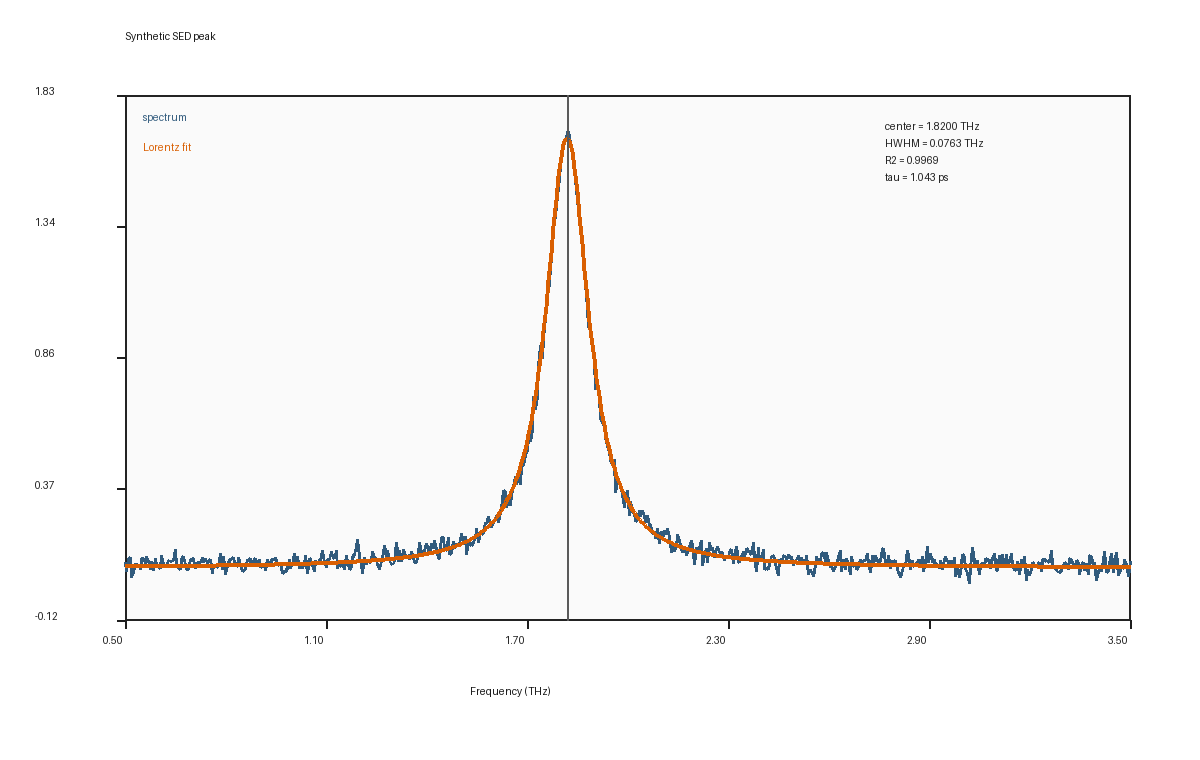
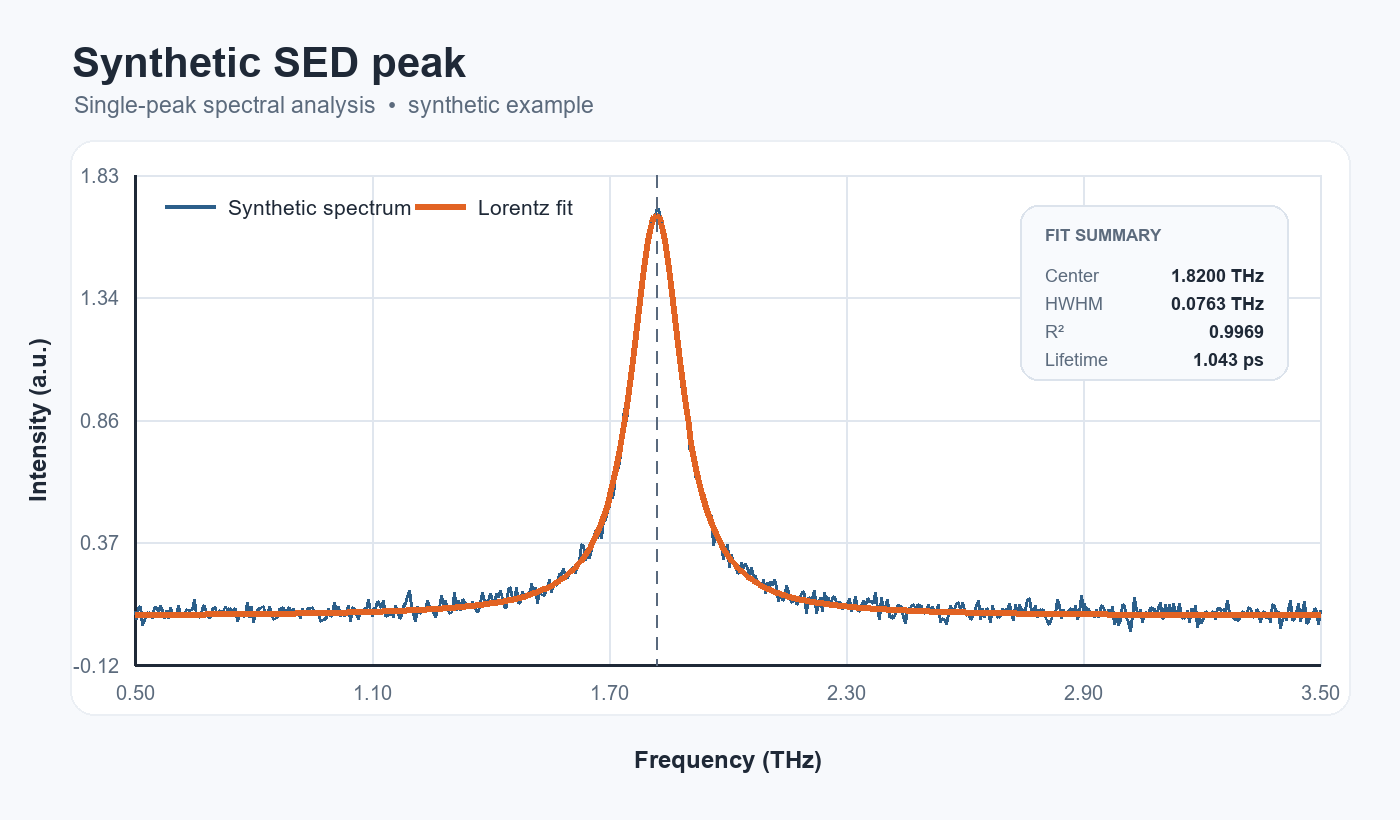
Improve demo figure styling

diff --git a/phononfit/plotting.py b/phononfit/plotting.py
@@ -8,26 +8,34 @@ from PIL import Image, ImageDraw, ImageFont
 from .fitting import LorentzFit
 
 
+INK = (31, 41, 55)
+MUTED = (92, 107, 125)
+GRID = (224, 230, 238)
+SPECTRUM = (44, 95, 138)
+FIT = (226, 99, 35)
+ACCENT = (89, 105, 125)
+
+
 def plot_fit(
     frequency: np.ndarray,
     intensity: np.ndarray,
     fit: LorentzFit,
     output: str | Path,
     *,
-    title: str = "Local Lorentz fit",
+    title: str = "Lorentz fit of a synthetic SED peak",
 ) -> Path:
-    """Write a compact, dependency-light spectrum/fit diagnostic figure."""
+    """Write a polished spectrum/fit diagnostic figure with Pillow."""
     x = np.asarray(frequency, dtype=float)
     y = np.asarray(intensity, dtype=float)
     fitted = fit.evaluate(x)
     output_path = Path(output)
     output_path.parent.mkdir(parents=True, exist_ok=True)
 
-    width, height = 1200, 760
-    image = Image.new("RGB", (width, height), "white")
+    width, height = 1400, 820
+    image = Image.new("RGB", (width, height), (247, 249, 252))
     draw = ImageDraw.Draw(image)
-    box = (125, 95, 1130, 620)
-    draw.rectangle(box, fill=(250, 250, 250), outline=(35, 35, 35), width=2)
+    plot = (135, 175, 1320, 665)
+    draw.rounded_rectangle((70, 140, 1350, 715), radius=24, fill="white", outline=(235, 239, 244), width=2)
 
     xmin, xmax = float(x.min()), float(x.max())
     ymin = float(min(y.min(), fitted.min()))
@@ -37,47 +45,103 @@ def plot_fit(
     ymax += padding
 
     def point(xvalue: float, yvalue: float) -> tuple[float, float]:
-        px = box[0] + (xvalue - xmin) / (xmax - xmin) * (box[2] - box[0])
-        py = box[3] - (yvalue - ymin) / (ymax - ymin) * (box[3] - box[1])
+        px = plot[0] + (xvalue - xmin) / (xmax - xmin) * (plot[2] - plot[0])
+        py = plot[3] - (yvalue - ymin) / (ymax - ymin) * (plot[3] - plot[1])
         return px, py
 
-    for fraction in np.linspace(0.0, 1.0, 6):
-        xvalue = xmin + fraction * (xmax - xmin)
-        px, _ = point(xvalue, ymin)
-        draw.line((px, box[3], px, box[3] + 8), fill=(30, 30, 30), width=2)
-        draw.text((px - 22, box[3] + 14), f"{xvalue:.2f}", fill=(30, 30, 30), font=_font(18))
-    for fraction in np.linspace(0.0, 1.0, 5):
-        yvalue = ymin + fraction * (ymax - ymin)
-        _, py = point(xmin, yvalue)
-        draw.line((box[0] - 8, py, box[0], py), fill=(30, 30, 30), width=2)
-        draw.text((35, py - 10), f"{yvalue:.2f}", fill=(30, 30, 30), font=_font(18))
+    x_ticks = np.linspace(xmin, xmax, 6)
+    y_ticks = np.linspace(ymin, ymax, 5)
+    for xvalue in x_ticks:
+        px, _ = point(float(xvalue), ymin)
+        draw.line((px, plot[1], px, plot[3]), fill=GRID, width=2)
+        label = f"{xvalue:.2f}"
+        bbox = draw.textbbox((0, 0), label, font=_font(20))
+        draw.text((px - (bbox[2] - bbox[0]) / 2, plot[3] + 16), label, fill=MUTED, font=_font(20))
+    for yvalue in y_ticks:
+        _, py = point(xmin, float(yvalue))
+        draw.line((plot[0], py, plot[2], py), fill=GRID, width=2)
+        label = f"{yvalue:.2f}"
+        bbox = draw.textbbox((0, 0), label, font=_font(20))
+        draw.text((plot[0] - (bbox[2] - bbox[0]) - 16, py - 11), label, fill=MUTED, font=_font(20))
 
-    draw.line([point(float(xv), float(yv)) for xv, yv in zip(x, y)], fill=(49, 91, 125), width=3)
-    draw.line(
-        [point(float(xv), float(yv)) for xv, yv in zip(x, fitted)],
-        fill=(217, 95, 2),
-        width=4,
-    )
+    draw.line((plot[0], plot[1], plot[0], plot[3]), fill=INK, width=3)
+    draw.line((plot[0], plot[3], plot[2], plot[3]), fill=INK, width=3)
+
+    spectrum_points = [point(float(xv), float(yv)) for xv, yv in zip(x, y)]
+    fit_points = [point(float(xv), float(yv)) for xv, yv in zip(x, fitted)]
+    draw.line(spectrum_points, fill=SPECTRUM, width=3)
+    draw.line(fit_points, fill=FIT, width=6)
+
     center_x, _ = point(fit.center, ymin)
-    draw.line((center_x, box[1], center_x, box[3]), fill=(90, 90, 90), width=2)
+    _dashed_vertical(draw, center_x, plot[1], plot[3], fill=ACCENT)
 
-    draw.text((125, 30), title, fill=(20, 20, 20), font=_font(32))
-    draw.text((470, 685), "Frequency (THz)", fill=(20, 20, 20), font=_font(24))
-    draw.text((box[0] + 18, box[1] + 16), "spectrum", fill=(49, 91, 125), font=_font(20))
-    draw.text((box[0] + 18, box[1] + 46), "Lorentz fit", fill=(217, 95, 2), font=_font(20))
-    summary = (
-        f"center = {fit.center:.4f} THz\n"
-        f"HWHM = {fit.hwhm:.4f} THz\n"
-        f"R2 = {fit.r2:.4f}\n"
-        f"tau = {fit.lifetime_ps:.3f} ps"
+    draw.text((72, 38), title, fill=INK, font=_font(42, bold=True))
+    draw.text(
+        (74, 92),
+        "Single-peak spectral analysis  •  synthetic example",
+        fill=MUTED,
+        font=_font(23),
     )
-    draw.multiline_text((885, 120), summary, fill=(30, 30, 30), font=_font(19), spacing=7)
+
+    legend_y = 195
+    draw.line((165, legend_y + 11, 215, legend_y + 11), fill=SPECTRUM, width=4)
+    draw.text((228, legend_y), "Synthetic spectrum", fill=INK, font=_font(21))
+    draw.line((415, legend_y + 11, 465, legend_y + 11), fill=FIT, width=6)
+    draw.text((478, legend_y), "Lorentz fit", fill=INK, font=_font(21))
+
+    card = (1020, 205, 1288, 380)
+    draw.rounded_rectangle(card, radius=18, fill=(248, 250, 253), outline=(220, 227, 236), width=2)
+    draw.text((1045, 225), "FIT SUMMARY", fill=MUTED, font=_font(17, bold=True))
+    metrics = [
+        ("Center", f"{fit.center:.4f} THz"),
+        ("HWHM", f"{fit.hwhm:.4f} THz"),
+        ("R²", f"{fit.r2:.4f}"),
+        ("Lifetime", f"{fit.lifetime_ps:.3f} ps"),
+    ]
+    for index, (label, value) in enumerate(metrics):
+        yy = 265 + index * 28
+        draw.text((1045, yy), label, fill=MUTED, font=_font(18))
+        value_box = draw.textbbox((0, 0), value, font=_font(18, bold=True))
+        draw.text((1264 - (value_box[2] - value_box[0]), yy), value, fill=INK, font=_font(18, bold=True))
+
+    x_label = "Frequency (THz)"
+    x_box = draw.textbbox((0, 0), x_label, font=_font(24, bold=True))
+    draw.text(((plot[0] + plot[2] - (x_box[2] - x_box[0])) / 2, 746), x_label, fill=INK, font=_font(24, bold=True))
+    _rotated_label(image, "Intensity (a.u.)", (42, (plot[1] + plot[3]) // 2))
+
     image.save(output_path, dpi=(180, 180))
     return output_path
 
 
-def _font(size: int) -> ImageFont.ImageFont:
-    try:
-        return ImageFont.truetype("DejaVuSans.ttf", size)
-    except OSError:
-        return ImageFont.load_default()
+def _dashed_vertical(
+    draw: ImageDraw.ImageDraw,
+    x: float,
+    y0: float,
+    y1: float,
+    *,
+    fill: tuple[int, int, int],
+) -> None:
+    y = y0
+    while y < y1:
+        draw.line((x, y, x, min(y + 12, y1)), fill=fill, width=2)
+        y += 22
+
+
+def _rotated_label(image: Image.Image, text: str, center: tuple[int, int]) -> None:
+    layer = Image.new("RGBA", (330, 60), (255, 255, 255, 0))
+    layer_draw = ImageDraw.Draw(layer)
+    font = _font(24, bold=True)
+    bbox = layer_draw.textbbox((0, 0), text, font=font)
+    layer_draw.text(((330 - (bbox[2] - bbox[0])) / 2, 12), text, fill=INK, font=font)
+    layer = layer.rotate(90, expand=True)
+    image.paste(layer, (center[0] - layer.width // 2, center[1] - layer.height // 2), layer)
+
+
+def _font(size: int, bold: bool = False) -> ImageFont.ImageFont:
+    names = ["DejaVuSans-Bold.ttf", "arialbd.ttf"] if bold else ["DejaVuSans.ttf", "arial.ttf"]
+    for name in names:
+        try:
+            return ImageFont.truetype(name, size)
+        except OSError:
+            continue
+    return ImageFont.load_default()